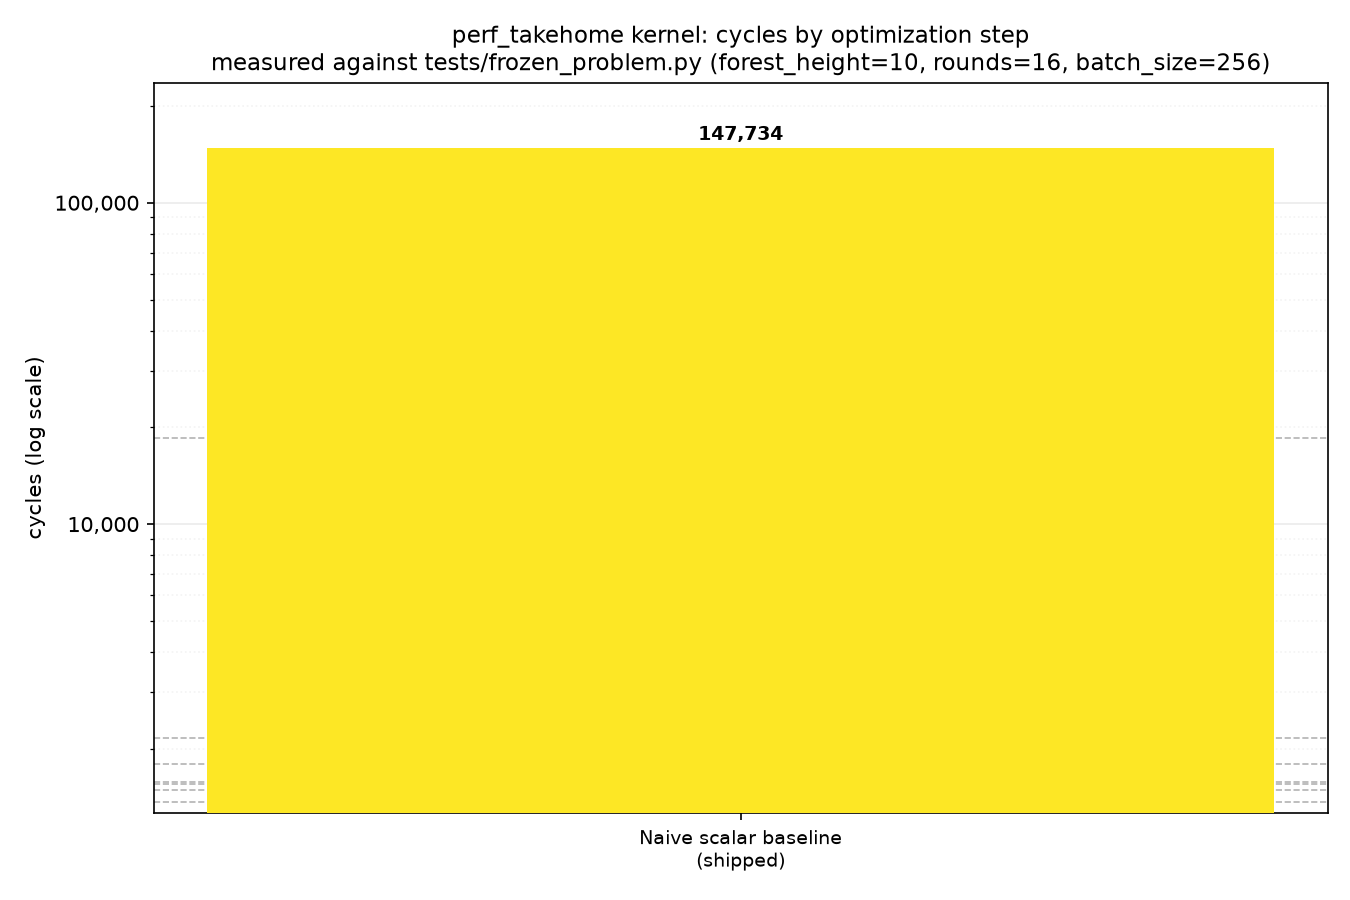
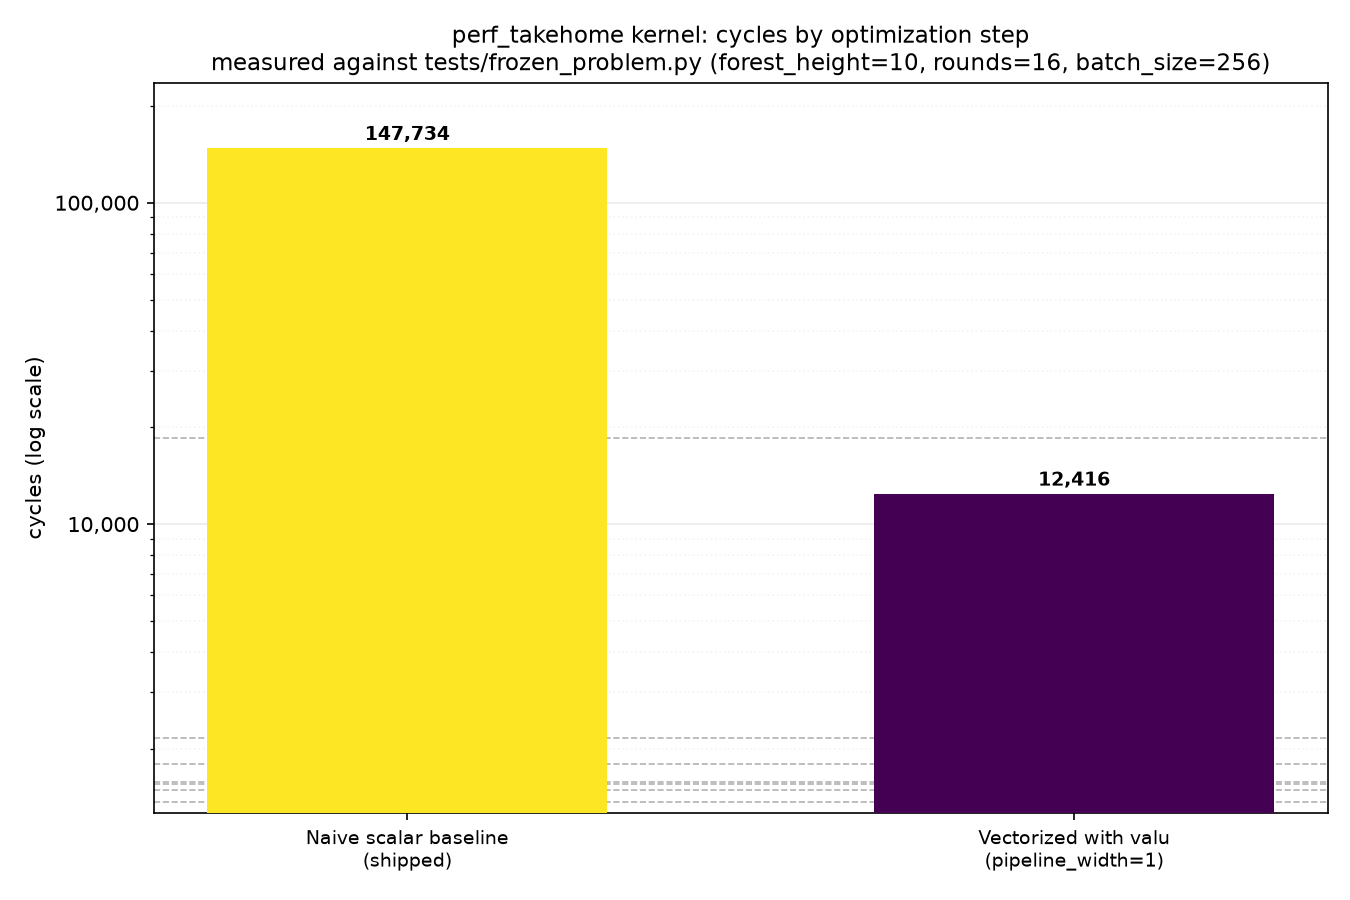
Vectorize the kernel with valu (pipeline_width=1): 147,734 -> 12,416 cycles
Port the algorithm prototyped and validated in rust_harness/src/vectorized.rs
into KernelBuilder.build_kernel: process VLEN=8 walkers per valu register
instead of one scalar walker at a time, keep idx/val resident in scratch
for a group's whole 16-round lifetime (touch memory only once at the start
and once at the end per group, instead of every round), and replace the
mod+eq+select parity branch with the equivalent (val%2)+1 arithmetic.

No cross-group pipelining yet -- a single group's own dependency chain
only offers 1-2 independent valu ops at a time, so valu's 6 slots/cycle
are mostly unfilled at this step (~17% fill per rust_harness's stats
tool). That's what the next step (pipeline_width=6) addresses.

11.9x speedup over the shipped baseline, correctness verified against
tests/frozen_problem.py across 8 fresh random seeds
(tests/submission_tests.py CorrectnessTests), tests/ untouched.

diff --git a/perf_takehome.py b/perf_takehome.py
@@ -44,6 +44,7 @@ class KernelBuilder:
         self.scratch_debug = {}
         self.scratch_ptr = 0
         self.const_map = {}
+        self._current = {}  # bundle being greedily packed by _pack/_flush
 
     def debug_info(self):
         return DebugInfo(scratch_map=self.scratch_debug)
@@ -57,6 +58,26 @@ class KernelBuilder:
 
     def add(self, engine, slot):
         self.instrs.append({engine: [slot]})
+
+    def _pack(self, engine, slot):
+        """
+        Greedily append `slot` to the bundle currently being built, filling
+        up to SLOT_LIMITS[engine] slots on that engine before starting a new
+        bundle. Safe to call freely for mutually-independent ops; call
+        _flush() before pushing anything that depends on a value one of
+        those ops just wrote, since a bundle's writes only become visible
+        after the whole bundle commits (see docs/isa.md).
+        """
+        bucket = self._current.setdefault(engine, [])
+        if len(bucket) >= SLOT_LIMITS[engine]:
+            self._flush()
+            bucket = self._current.setdefault(engine, [])
+        bucket.append(slot)
+
+    def _flush(self):
+        if self._current:
+            self.instrs.append(self._current)
+            self._current = {}
 
     def alloc_scratch(self, name=None, length=1):
         addr = self.scratch_ptr
@@ -74,104 +95,185 @@ class KernelBuilder:
             self.const_map[val] = addr
         return self.const_map[val]
 
-    def build_hash(self, val_hash_addr, tmp1, tmp2, round, i):
-        slots = []
-
-        for hi, (op1, val1, op2, op3, val3) in enumerate(HASH_STAGES):
-            slots.append(("alu", (op1, tmp1, val_hash_addr, self.scratch_const(val1))))
-            slots.append(("alu", (op3, tmp2, val_hash_addr, self.scratch_const(val3))))
-            slots.append(("alu", (op2, val_hash_addr, tmp1, tmp2)))
-            slots.append(("debug", ("compare", val_hash_addr, (round, i, "hash_stage", hi))))
-
-        return slots
-
     def build_kernel(
         self, forest_height: int, n_nodes: int, batch_size: int, rounds: int
     ):
+        self.build_kernel_vectorized(batch_size, rounds, pipeline_width=1)
+
+    def build_kernel_vectorized(self, batch_size: int, rounds: int, pipeline_width: int = 6):
         """
-        Like reference_kernel2 but building actual instructions.
-        Scalar implementation using only scalar ALU and load/store.
+        Vectorized + pipelined kernel: processes VLEN=8 walkers per `valu`
+        register instead of one scalar walker at a time, and keeps idx/val
+        resident in scratch for a group's entire round-lifetime -- memory is
+        only touched once at the very start (vload) and once at the very
+        end (vstore) per group, unlike a round-major scan that round-trips
+        through memory every round for every walker.
+
+        `pipeline_width` groups' independent instruction streams are
+        interleaved so valu's 6 slots/cycle actually get filled: a single
+        group's own hash-stage dependency chain (op1/op3 are independent,
+        but the combine step needs both, so it can't join them in the same
+        bundle -- see docs/isa.md) only ever offers 2 independent valu ops
+        at a time, and every other phase (addr, xor, mod, ...) offers only
+        1 -- so a wave of pipeline_width=6 groups fills every phase's valu
+        bundles at (close to) 100%, since 6 is a multiple of both 1 and 2.
+        pipeline_width=1 gives the vectorize-only version (valu is used,
+        but its slots mostly aren't filled).
+
+        node_val's lookup (`mem[forest_values_p + idx[lane]]`) is a
+        data-dependent gather -- there's no vector gather instruction in
+        this ISA, only contiguous vload/vstore -- so it's unavoidably 8
+        scalar loads per group per round; with `load`'s 2-slot/cycle limit
+        that makes it the dominant, hardest-to-remove cost once everything
+        else is packed (confirmed via rust_harness's usage-stats tool).
+
+        This was prototyped, correctness-checked against Python-exported
+        fixtures, and profiled in rust_harness/src/vectorized.rs before
+        being ported here -- see that file and rust_harness/README.md for
+        the fuller write-up, and docs/problem.md for the algorithm this
+        implements.
         """
-        tmp1 = self.alloc_scratch("tmp1")
-        tmp2 = self.alloc_scratch("tmp2")
-        tmp3 = self.alloc_scratch("tmp3")
-        # Scratch space addresses
-        init_vars = [
-            "rounds",
-            "n_nodes",
-            "batch_size",
-            "forest_height",
-            "forest_values_p",
-            "inp_indices_p",
-            "inp_values_p",
-        ]
-        for v in init_vars:
-            self.alloc_scratch(v, 1)
-        for i, v in enumerate(init_vars):
-            self.add("load", ("const", tmp1, i))
-            self.add("load", ("load", self.scratch[v], tmp1))
+        assert batch_size % VLEN == 0, f"batch_size must be a multiple of VLEN={VLEN}"
+        n_groups = batch_size // VLEN
+
+        # Only the 4 header fields this kernel actually reads (see
+        # docs/problem.md §2.5 for the fixed 7-word header layout).
+        header_fields = {"n_nodes": 1, "forest_values_p": 4, "inp_indices_p": 5, "inp_values_p": 6}
+        addr_tmp_scalar = self.alloc_scratch("header_addr_tmp")
+        for name, header_index in header_fields.items():
+            self.alloc_scratch(name)
+            self.add("load", ("const", addr_tmp_scalar, header_index))
+            self.add("load", ("load", self.scratch[name], addr_tmp_scalar))
+
+        # Matches reference_kernel2's first yield.
+        self.add("flow", ("pause",))
+
+        # Broadcast every constant this kernel needs into an 8-wide vector,
+        # exactly once; every group/round below only *reads* these.
+        def broadcast(src):
+            dest = self.alloc_scratch(length=VLEN)
+            self._pack("valu", ("vbroadcast", dest, src))
+            return dest
 
         zero_const = self.scratch_const(0)
         one_const = self.scratch_const(1)
         two_const = self.scratch_const(2)
+        zero_vec = broadcast(zero_const)
+        one_vec = broadcast(one_const)
+        two_vec = broadcast(two_const)
+        forest_values_p_vec = broadcast(self.scratch["forest_values_p"])
+        n_nodes_vec = broadcast(self.scratch["n_nodes"])
 
-        # Pause instructions are matched up with yield statements in the reference
-        # kernel to let you debug at intermediate steps. The testing harness in this
-        # file requires these match up to the reference kernel's yields, but the
-        # submission harness ignores them.
+        hash_const_vecs = [
+            (broadcast(self.scratch_const(val1)), broadcast(self.scratch_const(val3)))
+            for (_, val1, _, _, val3) in HASH_STAGES
+        ]
+        self._flush()
+
+        # One persistent 8-wide vector register per group, alive for the
+        # group's entire 16-round lifetime.
+        idx_vecs = [self.alloc_scratch(length=VLEN) for _ in range(n_groups)]
+        val_vecs = [self.alloc_scratch(length=VLEN) for _ in range(n_groups)]
+
+        # Per-pipeline-slot scratch temporaries, reused wave to wave.
+        def temp_pool():
+            return [self.alloc_scratch(length=VLEN) for _ in range(pipeline_width)]
+
+        addr_tmp = temp_pool()
+        node_val_tmp = temp_pool()
+        hash_tmp1 = temp_pool()
+        hash_tmp2 = temp_pool()
+        offset_tmp = temp_pool()
+        next_idx_tmp = temp_pool()
+        cmp_tmp = temp_pool()
+
+        def group_addrs(base):
+            # addr[g] = base + g*VLEN, computed as one packed batch (up to
+            # SLOT_LIMITS["alu"]/cycle) rather than one bundle per group.
+            addrs = []
+            for g in range(n_groups):
+                dest = self.alloc_scratch()
+                offset_const = self.scratch_const(g * VLEN)
+                self._pack("alu", ("+", dest, base, offset_const))
+                addrs.append(dest)
+            self._flush()
+            return addrs
+
+        # Load every group's starting idx/val once.
+        idx_addrs = group_addrs(self.scratch["inp_indices_p"])
+        val_addrs = group_addrs(self.scratch["inp_values_p"])
+        for g in range(n_groups):
+            self._pack("load", ("vload", idx_vecs[g], idx_addrs[g]))
+            self._pack("load", ("vload", val_vecs[g], val_addrs[g]))
+        self._flush()
+
+        for _round in range(rounds):
+            wave_start = 0
+            while wave_start < n_groups:
+                wave = list(range(wave_start, min(wave_start + pipeline_width, n_groups)))
+                wave_start += pipeline_width
+
+                # addr[g] = idx[g] + forest_values_p (all 8 lanes' gather addresses in one valu op)
+                for slot, g in enumerate(wave):
+                    self._pack("valu", ("+", addr_tmp[slot], idx_vecs[g], forest_values_p_vec))
+                self._flush()
+
+                # gather node_val -- unavoidably scalar, see docstring above
+                for slot in range(len(wave)):
+                    for lane in range(VLEN):
+                        self._pack("load", ("load", node_val_tmp[slot] + lane, addr_tmp[slot] + lane))
+                self._flush()
+
+                # val ^= node_val
+                for slot, g in enumerate(wave):
+                    self._pack("valu", ("^", val_vecs[g], val_vecs[g], node_val_tmp[slot]))
+                self._flush()
+
+                # 6-stage hash, vectorized
+                for stage_idx, (op1, _, op2, op3, _) in enumerate(HASH_STAGES):
+                    c1_vec, c3_vec = hash_const_vecs[stage_idx]
+                    for slot, g in enumerate(wave):
+                        self._pack("valu", (op1, hash_tmp1[slot], val_vecs[g], c1_vec))
+                        self._pack("valu", (op3, hash_tmp2[slot], val_vecs[g], c3_vec))
+                    self._flush()
+                    for slot, g in enumerate(wave):
+                        self._pack("valu", (op2, val_vecs[g], hash_tmp1[slot], hash_tmp2[slot]))
+                    self._flush()
+
+                # offset = (val % 2) + 1 -- replaces the naive mod+eq+select
+                for slot, g in enumerate(wave):
+                    self._pack("valu", ("%", offset_tmp[slot], val_vecs[g], two_vec))
+                self._flush()
+                for slot in range(len(wave)):
+                    self._pack("valu", ("+", offset_tmp[slot], offset_tmp[slot], one_vec))
+                self._flush()
+
+                # next_idx = idx*2 + offset
+                for slot, g in enumerate(wave):
+                    self._pack("valu", ("*", next_idx_tmp[slot], idx_vecs[g], two_vec))
+                self._flush()
+                for slot in range(len(wave)):
+                    self._pack("valu", ("+", next_idx_tmp[slot], next_idx_tmp[slot], offset_tmp[slot]))
+                self._flush()
+
+                # wraparound: idx = (next_idx < n_nodes) ? next_idx : 0 -- the one genuine select
+                for slot in range(len(wave)):
+                    self._pack("valu", ("<", cmp_tmp[slot], next_idx_tmp[slot], n_nodes_vec))
+                self._flush()
+                for slot, g in enumerate(wave):
+                    self._pack("flow", ("vselect", idx_vecs[g], cmp_tmp[slot], next_idx_tmp[slot], zero_vec))
+                self._flush()
+
+        # Store every group's final idx/val once, at the same addresses
+        # computed for the initial load (nothing writes those pointer
+        # registers in between, so there's no need to recompute them).
+        for g in range(n_groups):
+            self._pack("store", ("vstore", idx_addrs[g], idx_vecs[g]))
+            self._pack("store", ("vstore", val_addrs[g], val_vecs[g]))
+        self._flush()
+
+        # Matches reference_kernel2's second yield.
         self.add("flow", ("pause",))
-        # Any debug engine instruction is ignored by the submission simulator
-        self.add("debug", ("comment", "Starting loop"))
-
-        body = []  # array of slots
-
-        # Scalar scratch registers
-        tmp_idx = self.alloc_scratch("tmp_idx")
-        tmp_val = self.alloc_scratch("tmp_val")
-        tmp_node_val = self.alloc_scratch("tmp_node_val")
-        tmp_addr = self.alloc_scratch("tmp_addr")
-
-        for round in range(rounds):
-            for i in range(batch_size):
-                i_const = self.scratch_const(i)
-                # idx = mem[inp_indices_p + i]
-                body.append(("alu", ("+", tmp_addr, self.scratch["inp_indices_p"], i_const)))
-                body.append(("load", ("load", tmp_idx, tmp_addr)))
-                body.append(("debug", ("compare", tmp_idx, (round, i, "idx"))))
-                # val = mem[inp_values_p + i]
-                body.append(("alu", ("+", tmp_addr, self.scratch["inp_values_p"], i_const)))
-                body.append(("load", ("load", tmp_val, tmp_addr)))
-                body.append(("debug", ("compare", tmp_val, (round, i, "val"))))
-                # node_val = mem[forest_values_p + idx]
-                body.append(("alu", ("+", tmp_addr, self.scratch["forest_values_p"], tmp_idx)))
-                body.append(("load", ("load", tmp_node_val, tmp_addr)))
-                body.append(("debug", ("compare", tmp_node_val, (round, i, "node_val"))))
-                # val = myhash(val ^ node_val)
-                body.append(("alu", ("^", tmp_val, tmp_val, tmp_node_val)))
-                body.extend(self.build_hash(tmp_val, tmp1, tmp2, round, i))
-                body.append(("debug", ("compare", tmp_val, (round, i, "hashed_val"))))
-                # idx = 2*idx + (1 if val % 2 == 0 else 2)
-                body.append(("alu", ("%", tmp1, tmp_val, two_const)))
-                body.append(("alu", ("==", tmp1, tmp1, zero_const)))
-                body.append(("flow", ("select", tmp3, tmp1, one_const, two_const)))
-                body.append(("alu", ("*", tmp_idx, tmp_idx, two_const)))
-                body.append(("alu", ("+", tmp_idx, tmp_idx, tmp3)))
-                body.append(("debug", ("compare", tmp_idx, (round, i, "next_idx"))))
-                # idx = 0 if idx >= n_nodes else idx
-                body.append(("alu", ("<", tmp1, tmp_idx, self.scratch["n_nodes"])))
-                body.append(("flow", ("select", tmp_idx, tmp1, tmp_idx, zero_const)))
-                body.append(("debug", ("compare", tmp_idx, (round, i, "wrapped_idx"))))
-                # mem[inp_indices_p + i] = idx
-                body.append(("alu", ("+", tmp_addr, self.scratch["inp_indices_p"], i_const)))
-                body.append(("store", ("store", tmp_addr, tmp_idx)))
-                # mem[inp_values_p + i] = val
-                body.append(("alu", ("+", tmp_addr, self.scratch["inp_values_p"], i_const)))
-                body.append(("store", ("store", tmp_addr, tmp_val)))
-
-        body_instrs = self.build(body)
-        self.instrs.extend(body_instrs)
-        # Required to match with the yield in reference_kernel2
-        self.instrs.append({"flow": [("pause",)]})
 
 BASELINE = 147734
 
